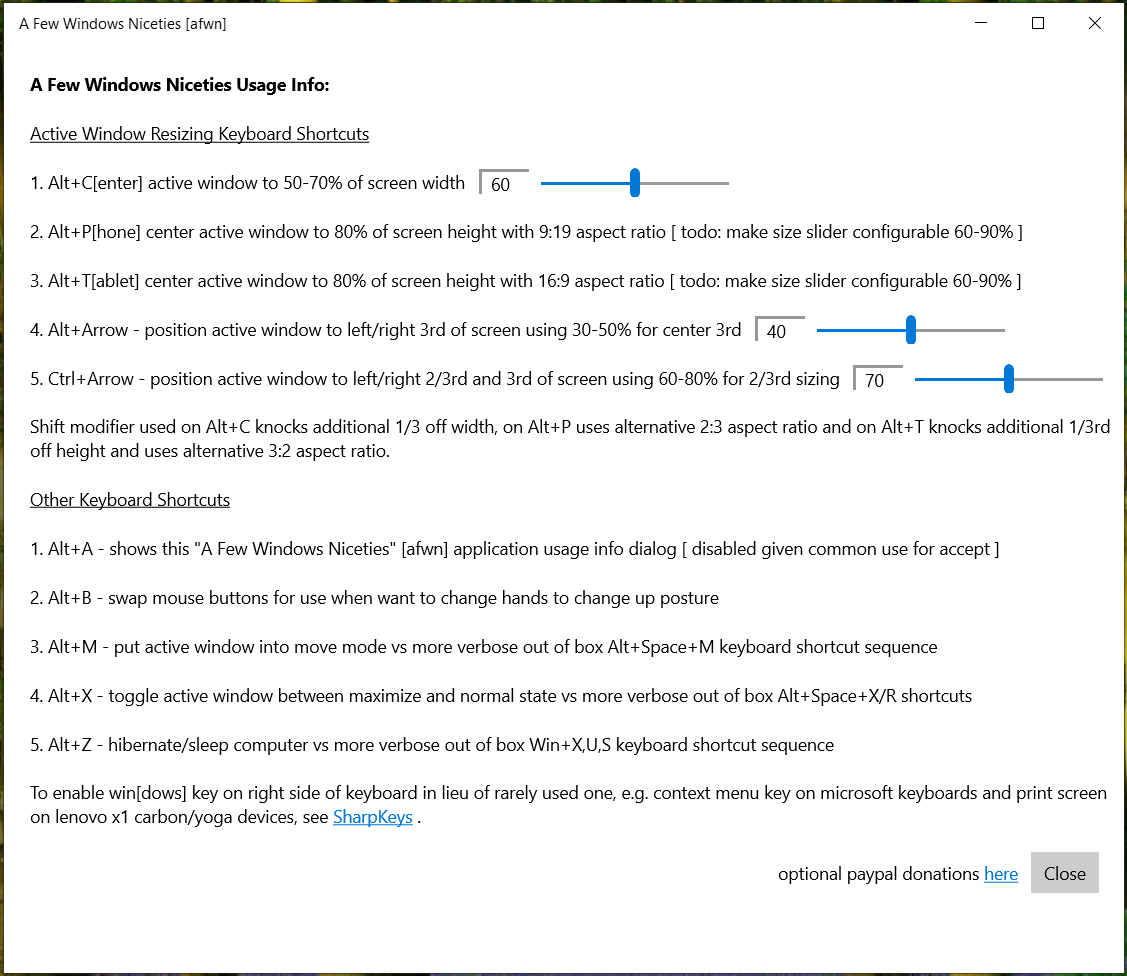
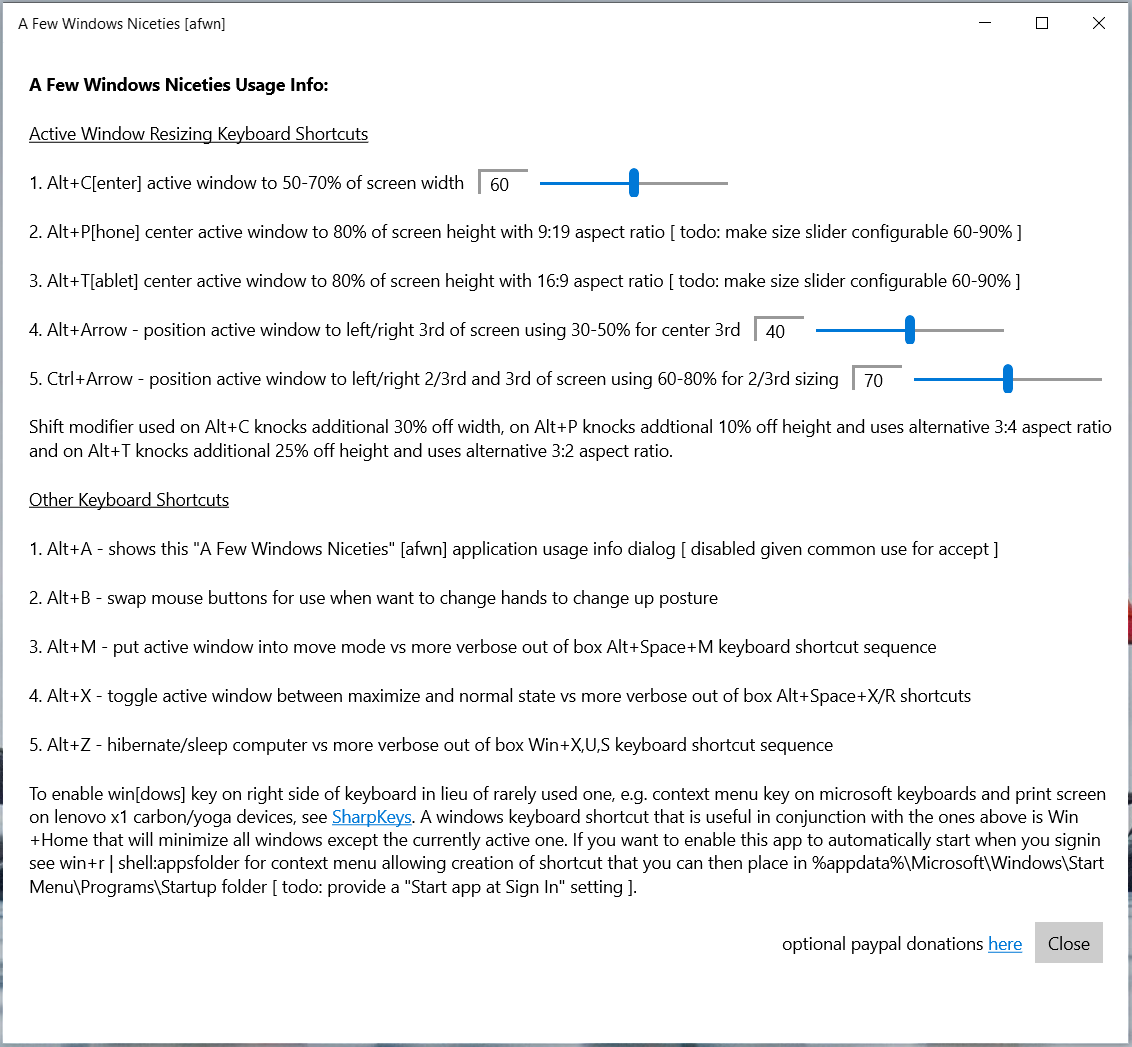
updates associated with store publishing

Changed region(s): [[0.0, 0.0, 1.0, 1.0], [0.8385, 0.0, 0.9317, 0.0307]]

diff --git a/SystrayExtension/MainPage.xaml b/SystrayExtension/MainPage.xaml
@@ -61,7 +61,7 @@
                 <TextBox x:Name="CtrlArrowWidth" Margin="10,-20,10,0" Padding="7,0,0,0" Height="20" Width="40" Text="{x:Bind ViewModel.CtrlArrowWidth, Mode=TwoWay, UpdateSourceTrigger=LostFocus}" />
                 <Slider x:Name="CtrlArrowWidthSlider" BorderBrush="Transparent" Margin="0,-15,0,0" Padding="0,-7,0,0" Height="20" Width="150" Minimum="60" Maximum="80" SmallChange="2" LargeChange="5" Value="{x:Bind ViewModel.CtrlArrowWidth, Mode=TwoWay}" />
             </StackPanel>
-            <TextBlock>Shift modifier used on Alt+C knocks additional 30% off width, on Alt+P knocks addtional 10% off height and uses alternative 3:4 aspect ratio 
+            <TextBlock>Shift modifier used on Alt+C knocks additional 30% off width, on Alt+P knocks additional 10% off height and uses alternative 3:4 aspect ratio 
                 and on Alt+T knocks additional 25% off height and uses alternative 3:2 aspect ratio.</TextBlock>
             <TextBlock><Underline>Other Keyboard Shortcuts</Underline></TextBlock>
             <TextBlock>1. Alt+A - shows this "A Few Windows Niceties" [afwn] application usage info dialog [ disabled given common use for accept ]</TextBlock>
